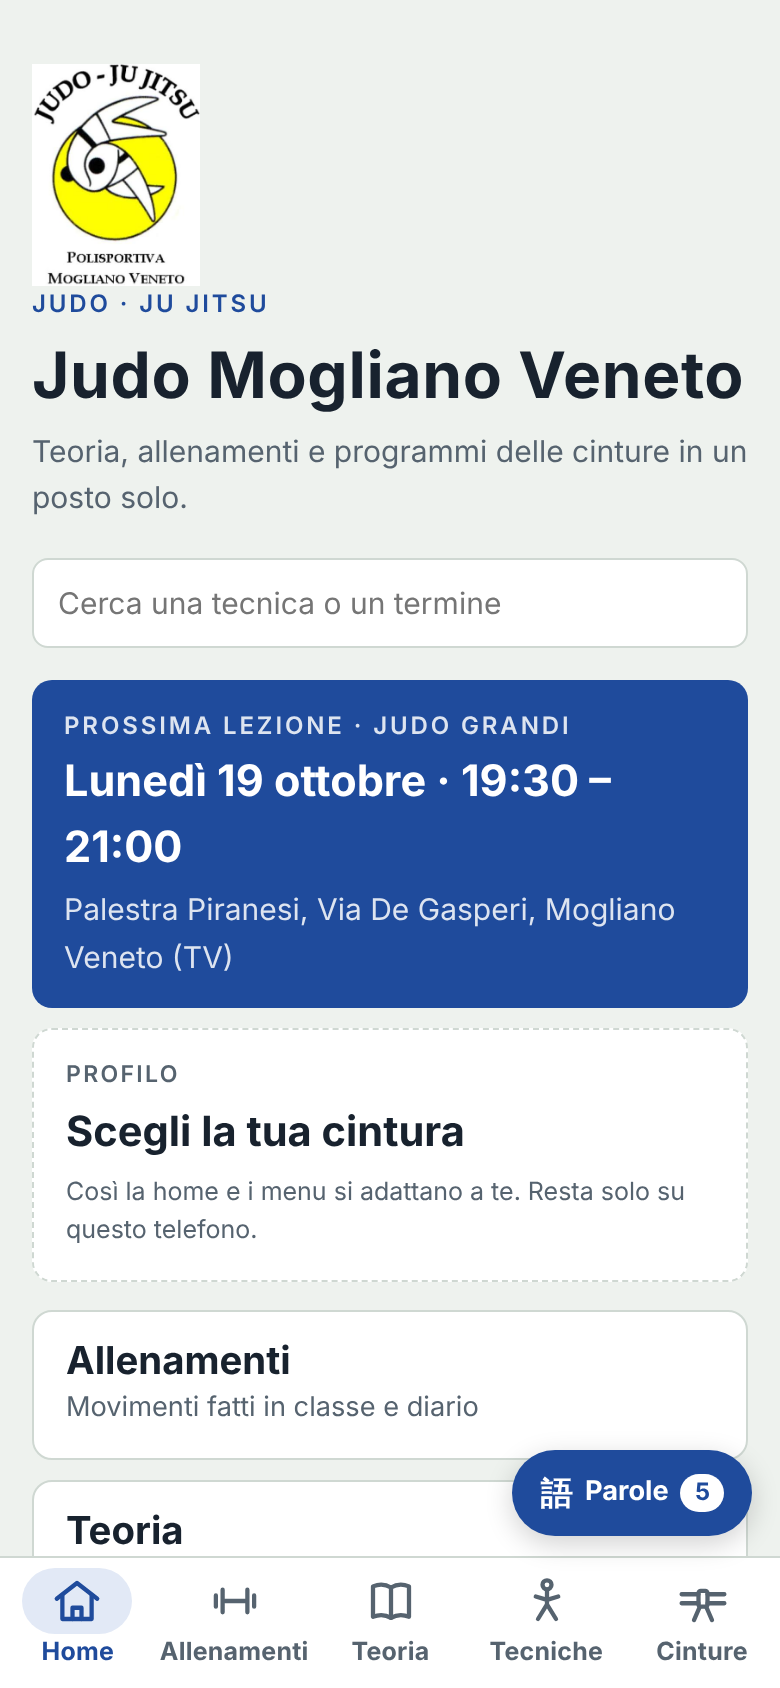
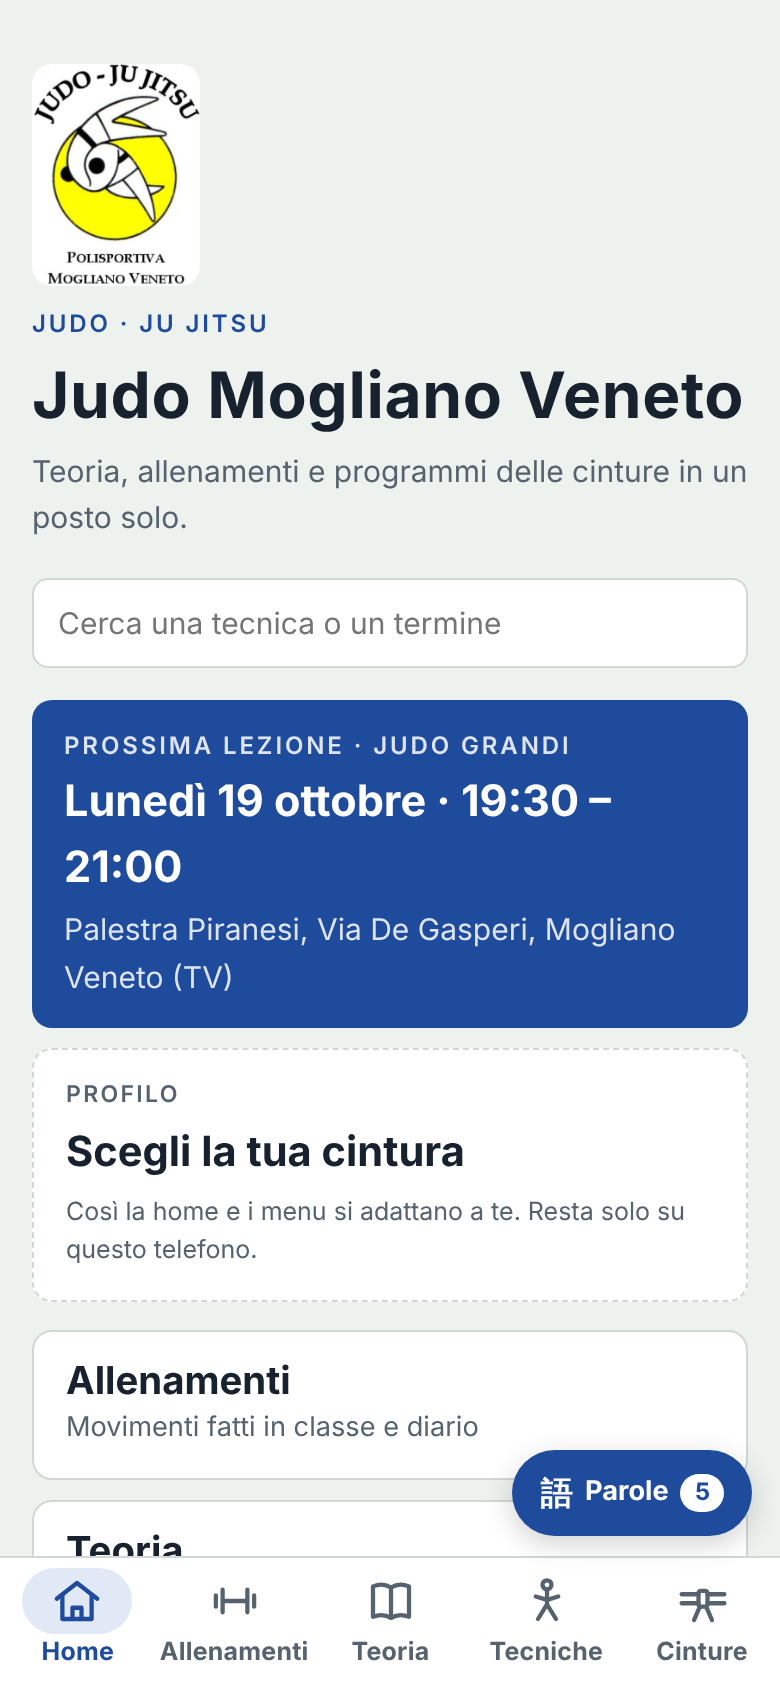
Quiz sui nomi giapponesi e sulle tecniche
Claude-Session: https://claude.ai/code/session_015JjdPPk9TiffGNd23eiqmQ

diff --git a/quiz.js b/quiz.js
@@ -1,0 +1,95 @@
+/* Quiz sui termini giapponesi e sulle tecniche. Le domande vengono dal glossario (glossario.js) e dal catalogo (tecniche.js):
+   aggiungendo voci là, il quiz le usa da solo. Il punteggio migliore resta solo su questo telefono. */
+(function () {
+  const { esc, store } = window.R;
+  const ROUND = 10;
+  const clean = s => String(s).replace(/\*\*/g, "");
+  // risposta breve: la prima frase del significato
+  const breve = d => { const s = clean(d); const m = s.match(/^(.{12,120}?[.;])(\s|$)/); return (m ? m[1] : s.slice(0, 110)).replace(/[.;]$/, ""); };
+  const shuffle = a => { a = a.slice(); for (let i = a.length - 1; i > 0; i--) { const j = Math.floor(Math.random() * (i + 1)); [a[i], a[j]] = [a[j], a[i]]; } return a; };
+  const pick = (a, n) => shuffle(a).slice(0, n);
+  const TECH = /^(Proiezioni|Immobilizzazioni|Strangolamenti|Leve)/;
+
+  const MODI = [
+    { id: "termini", nome: "Parole del dojo", txt: "Saluti, cadute, numeri, principi: cosa significano?", ico: "🥋" },
+    { id: "tecniche", nome: "Nomi delle tecniche", txt: "Cosa vuol dire il nome giapponese di ogni tecnica?", ico: "🌀" },
+    { id: "gruppi", nome: "Gruppo e kyo", txt: "A che gruppo e a che kyo appartiene la tecnica?", ico: "🎯" },
+    { id: "misto", nome: "Tutto mescolato", txt: "Un po' di tutto: la sfida completa.", ico: "⭐" }
+  ];
+
+  function domandeSignificato(filtro) {
+    const pool = (window.GLOSSARIO || []).filter(g => g.d && filtro(g));
+    return pool.map(g => {
+      const giusta = breve(g.d);
+      const stessa = pool.filter(x => x !== g && x.cat === g.cat && breve(x.d) !== giusta);
+      const altre = pool.filter(x => x !== g && x.cat !== g.cat && breve(x.d) !== giusta);
+      const dist = [...pick(stessa, 3), ...pick(altre, 3)].filter((x, i, a) => a.findIndex(y => breve(y.d) === breve(x.d)) === i).slice(0, 3);
+      if (dist.length < 3) return null;
+      return { q: `Cosa significa «${g.t}»?`, hint: g.jp || "", giusta, opz: shuffle([giusta, ...dist.map(x => breve(x.d))]), spiega: clean(g.d) + (g.n ? " " + clean(g.n) : "") };
+    }).filter(Boolean);
+  }
+
+  function domandeGruppi() {
+    const T = (window.TECNICHE || []).filter(t => !t.vietata && t.gruppo && t.kyo);
+    const gruppi = [...new Set(T.map(t => t.gruppo))], kyo = [...new Set(T.map(t => t.kyo))].sort();
+    const out = [];
+    T.forEach(t => {
+      if (gruppi.length >= 4) out.push({ q: `A quale gruppo appartiene «${t.nome}»?`, giusta: t.gruppo, opz: shuffle([t.gruppo, ...pick(gruppi.filter(g => g !== t.gruppo), 3)]), spiega: `${t.nome}: ${t.gruppo}, ${t.kyo}.` });
+      if (kyo.length >= 4) out.push({ q: `In quale kyo (gruppo del Gokyo) c'è «${t.nome}»?`, giusta: t.kyo, opz: shuffle([t.kyo, ...pick(kyo.filter(k => k !== t.kyo), 3)]), spiega: `${t.nome}: ${t.kyo}, ${t.gruppo}.` });
+    });
+    return out;
+  }
+
+  const costruisci = id => {
+    const termini = () => domandeSignificato(g => !TECH.test(g.cat) && !["Ju Jitsu", "Classificazione", "Arbitraggio"].includes(g.cat));
+    const tecniche = () => domandeSignificato(g => TECH.test(g.cat) && !/vietate/.test(g.cat));
+    if (id === "termini") return termini();
+    if (id === "tecniche") return tecniche();
+    if (id === "gruppi") return domandeGruppi();
+    return [...pick(termini(), 8), ...pick(tecniche(), 8), ...pick(domandeGruppi(), 8)];
+  };
+
+  const best = id => parseInt(store.get("quiz-" + id), 10) || 0;
+
+  function start(el) {
+    const menu = () => {
+      el.innerHTML = `<div class="quiz"><p class="lead">10 domande a risposta multipla. Tocca la risposta che pensi giusta: ti dico subito se hai indovinato e perché. Il punteggio resta solo sul tuo telefono.</p>
+        <div class="menu">${MODI.map(m => `<button type="button" class="tile quiz-mode" data-m="${m.id}"><b>${m.ico} ${esc(m.nome)}</b><span>${esc(m.txt)}</span><span class="best">Miglior punteggio: ${best(m.id)}/${ROUND}</span></button>`).join("")}</div></div>`;
+      el.querySelectorAll("[data-m]").forEach(b => b.addEventListener("click", () => gioca(b.dataset.m)));
+    };
+
+    const gioca = id => {
+      const dom = pick(costruisci(id), ROUND);
+      let i = 0, punti = 0;
+      const mostra = () => {
+        if (i >= dom.length) return fine();
+        const d = dom[i];
+        el.innerHTML = `<div class="quiz"><div class="quiz-top"><button type="button" class="link" data-menu>‹ Esci</button><span>Domanda ${i + 1} di ${dom.length} · Punti ${punti}</span></div>
+          <div class="quiz-bar"><i style="width:${i / dom.length * 100}%"></i></div>
+          <h2 class="quiz-q">${esc(d.q)}</h2>${d.hint ? `<p class="small jp" lang="ja">${esc(d.hint)}</p>` : ""}
+          <div class="quiz-opz">${d.opz.map((o, k) => `<button type="button" class="quiz-o" data-k="${k}">${esc(o)}</button>`).join("")}</div>
+          <div class="quiz-fb" aria-live="polite"></div></div>`;
+        el.querySelector("[data-menu]").addEventListener("click", menu);
+        el.querySelectorAll(".quiz-o").forEach(b => b.addEventListener("click", () => {
+          const ok = d.opz[+b.dataset.k] === d.giusta;
+          if (ok) punti++;
+          el.querySelectorAll(".quiz-o").forEach(x => { x.disabled = true; const g = d.opz[+x.dataset.k] === d.giusta; x.classList.toggle("ok", g); if (x === b && !g) x.classList.add("no"); });
+          const fb = el.querySelector(".quiz-fb");
+          fb.innerHTML = `<p class="${ok ? "ok" : "no"}"><b>${ok ? "Esatto! 🎉" : "Quasi! La risposta giusta è quella in verde."}</b></p><p class="small">${esc(d.spiega)}</p><button type="button" class="btn" data-next>${i + 1 >= dom.length ? "Vedi il risultato" : "Avanti"}</button>`;
+          const n = fb.querySelector("[data-next]"); n.addEventListener("click", () => { i++; mostra(); }); n.focus({preventScroll:true}); n.scrollIntoView({block:"center",behavior:"smooth"});
+        }));
+      };
+      const fine = () => {
+        const nuovo = punti > best(id); if (nuovo) store.set("quiz-" + id, String(punti));
+        const frase = punti === dom.length ? "Perfetto! Sei una cintura nera del quiz." : punti >= dom.length * 0.7 ? "Bravissimo, ci sei quasi!" : punti >= dom.length * 0.4 ? "Buon inizio: rifallo e migliorerai." : "Si impara giocando: riprova, le parole diventano subito familiari.";
+        el.innerHTML = `<div class="quiz quiz-end"><div class="quiz-score">${punti}<small>/${dom.length}</small></div><h2>${esc(frase)}</h2>${nuovo ? `<p class="ok"><b>Nuovo record! 🏆</b></p>` : `<p class="small">Il tuo record: ${best(id)}/${ROUND}</p>`}
+          <div class="row"><button type="button" class="btn" data-again>Rigioca</button><button type="button" class="btn ghost" data-menu>Cambia gioco</button></div></div>`;
+        el.querySelector("[data-again]").addEventListener("click", () => gioca(id));
+        el.querySelector("[data-menu]").addEventListener("click", menu);
+      };
+      mostra();
+    };
+    menu();
+  }
+  window.Quiz = { start };
+})();

diff --git a/app.js b/app.js
@@ -63,6 +63,7 @@
         { href: "#/teoria", label: "Teoria", text: "Storia, principi, Gokyo, kata, regole di gara" },
         { href: me ? `#/cinture/${me.id}` : "#/cinture", label: me ? `Cintura ${me.nome.toLowerCase()}` : "Cinture", text: `Programmi per cintura (${B.anno}): in cantiere` },
         { href: "#/tecniche", label: "Tecniche", text: "Schede passo per passo con disegni e video" },
+        { href: "#/quiz", label: "Quiz", text: "Gioca con i nomi giapponesi e metti alla prova la memoria" },
         { href: "#/glossario", label: "Glossario", text: "Il significato dei termini giapponesi" },
         { href: "#/dojo", label: "Dojo", text: "Orari, palestra e appuntamenti" }
       ])}`;
@@ -77,6 +78,11 @@
       res.innerHTML = all.length ? all.join("") : `<p class="small">Nessun risultato.</p>`;
       res.querySelectorAll(".chip-open").forEach(b => b.addEventListener("click", () => window.R.sheet.open(G.find(g => norm(g.t) === b.dataset.term))));
     });
+  }
+
+  function quizPage() {
+    app.innerHTML = head("Gioca", "Quiz", "", ["#/", "Home"]) + `<div id="quiz"></div>`;
+    window.Quiz.start(app.querySelector("#quiz"));
   }
 
   function profiloPage() {
@@ -377,7 +383,7 @@
   function miniGloss(page) {
     document.querySelectorAll(".gpanel, .gfab").forEach(x => x.remove());
     document.body.classList.remove("has-gp");
-    if (page === "glossario" || page === "info" || page === "profilo") return;
+    if (page === "quiz" || page === "glossario" || page === "info" || page === "profilo") return;
     const hdr = app.querySelector("header");
     if (!hdr) return;
     const tw = document.createTreeWalker(app, NodeFilter.SHOW_TEXT), parts = [];
@@ -416,6 +422,7 @@
     else if (a === "teoria") b ? teoriaPage(b) : teoria();
     else if (a === "cinture") b ? cintura(b) : cinture();
     else if (a === "glossario") glossario();
+    else if (a === "quiz") quizPage();
     else if (a === "tecniche") b ? tecnica(b) : tecniche();
     else if (a === "dojo") dojo();
     else if (a === "profilo") profiloPage();

diff --git a/style.css b/style.css
@@ -282,3 +282,26 @@ button.link { font: inherit; background: none; border: 0; color: var(--muted); t
 .v-lato svg { width: 100%; height: auto; max-height: 320px; display: block; }
 .logo-home{display:block;margin:4px 0 0;height:auto;width:84px}
 .logo-home{border-radius:10px;margin-bottom:10px}
+
+/* Quiz */
+.quiz{display:grid;gap:12px}
+.quiz-mode{text-align:left;font:inherit;cursor:pointer}
+.quiz-mode .best{color:var(--accent);font-weight:600;font-size:.82rem}
+.quiz-top{display:flex;justify-content:space-between;align-items:center;gap:8px;color:var(--muted);font-size:.9rem}
+.quiz-bar{height:8px;background:var(--line);border-radius:99px;overflow:hidden}
+.quiz-bar i{display:block;height:100%;background:var(--accent);transition:width .3s}
+.quiz-q{font-size:1.3rem;line-height:1.3;margin:6px 0 0}
+.quiz-opz{display:grid;gap:10px}
+.quiz-o{font:inherit;font-size:1rem;text-align:left;background:var(--surface);color:var(--ink);border:2px solid var(--line);border-radius:12px;padding:14px;min-height:56px;cursor:pointer}
+.quiz-o:not(:disabled):hover{border-color:var(--accent)}
+.quiz-o:disabled{cursor:default;opacity:.85}
+.quiz-o.ok{border-color:#2a8a4a;background:#e3f4e8;opacity:1;font-weight:600}
+.quiz-o.no{border-color:#c0392b;background:#fbe6e3;opacity:1}
+.quiz-fb{display:grid;gap:8px;justify-items:start}
+.quiz-fb p{margin:0}
+.quiz .ok{color:#1f6b3a}.quiz .no{color:#a5301f}
+.quiz-o.ok,.quiz-o.no{color:var(--ink)}
+.quiz-end{text-align:center;justify-items:center;padding:20px 0}
+.quiz-score{font-size:4rem;font-weight:800;color:var(--accent);line-height:1}
+.quiz-score small{font-size:1.4rem;color:var(--muted)}
+.quiz-end .row{display:flex;gap:10px;flex-wrap:wrap;justify-content:center}

diff --git a/sw.js b/sw.js
@@ -1,7 +1,7 @@
 /* Service worker: la guida funziona anche senza rete.
    Con rete scarica sempre l'ultima versione dei file e la tiene in memoria per l'uso offline. */
-const CACHE = "guida-judo-v21";
-const FILES = ["./", "index.html", "style.css", "glossario.js", "render.js", "figures.js", "exercises.js", "content.js", "teoria.js", "tecniche.js", "disegni.js", "pianta.js", "laterale.js", "video.js", "cinture.js", "lezione.js", "dojo.js", "app.js", "manifest.webmanifest",
+const CACHE = "guida-judo-v22";
+const FILES = ["./", "index.html", "style.css", "glossario.js", "render.js", "figures.js", "exercises.js", "content.js", "teoria.js", "tecniche.js", "disegni.js", "pianta.js", "laterale.js", "video.js", "quiz.js", "cinture.js", "lezione.js", "dojo.js", "app.js", "manifest.webmanifest",
   "icons/icon-192.png", "icons/icon-512.png", "icons/icon-maskable-512.png", "icons/logo.png", "icons/apple-touch-icon.png"];
 
 self.addEventListener("install", e => {

diff --git a/index.html b/index.html
@@ -26,6 +26,7 @@
 <script src="tecniche.js"></script>
 <script src="disegni.js"></script>
 <script src="video.js"></script>
+<script src="quiz.js"></script>
 <script src="cinture.js"></script>
 <script src="lezione.js"></script>
 <script src="dojo.js"></script>
